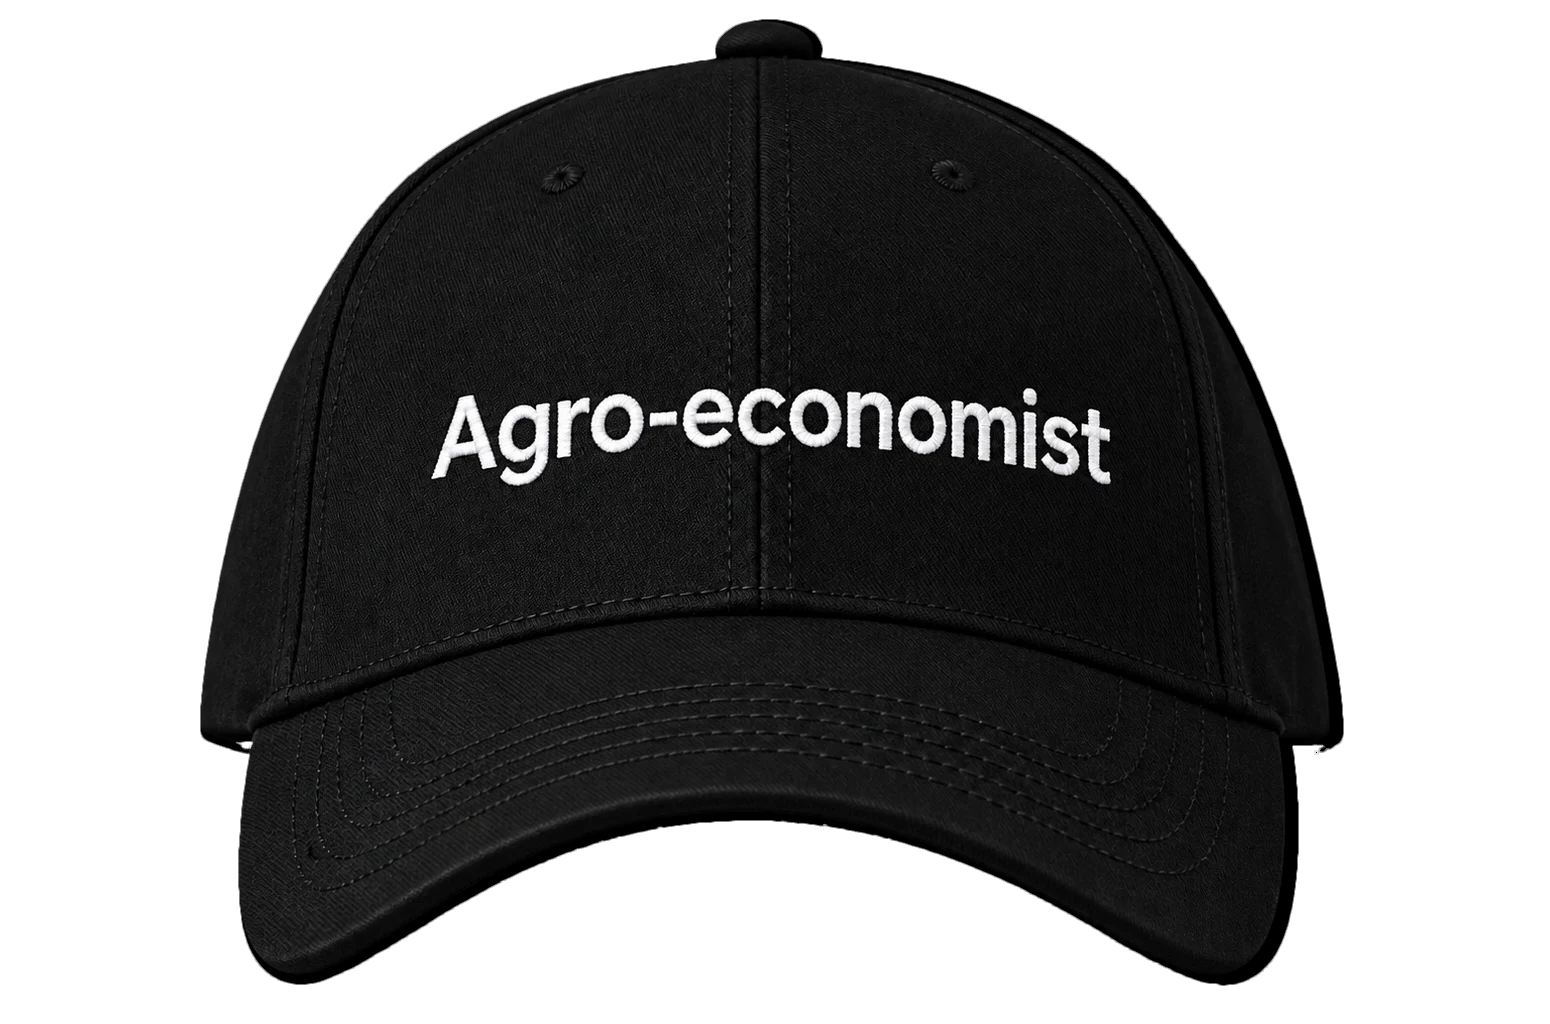
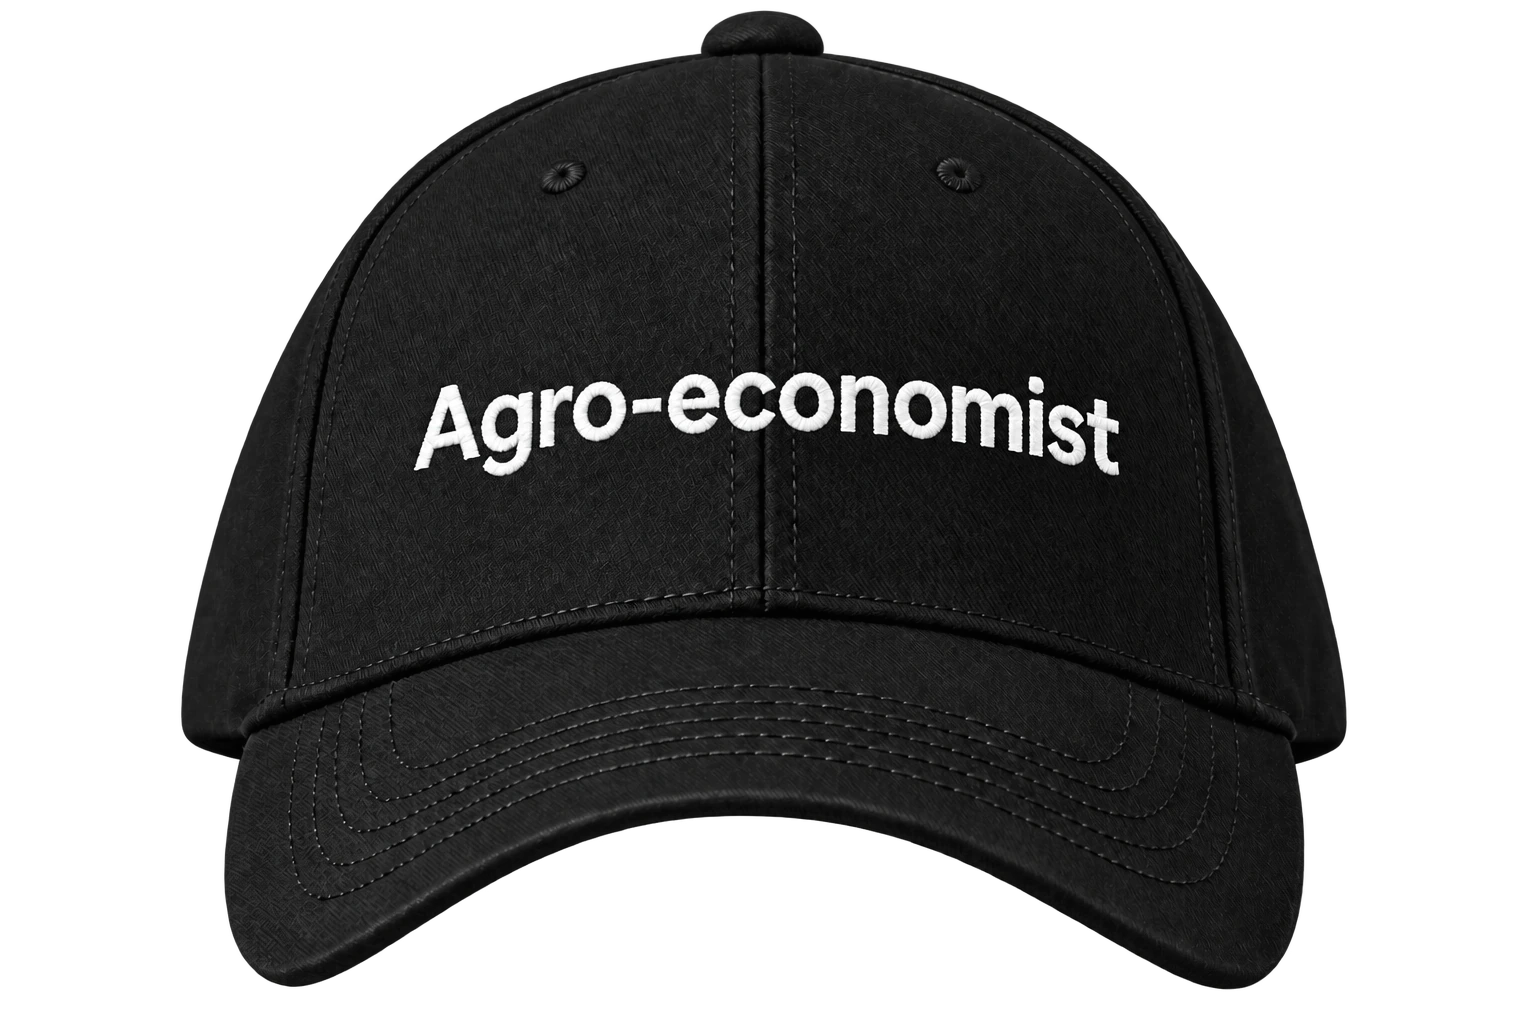
feat: new cap rotation visuals, trim the nav and the home
Six caps replaced, one per role and language. The two agro files arrived
already cut out; the four coloured ones sat on an opaque black vignette.

A luminance flood fill was tried first and stopped on that vignette, leaving a
grey ring hugging each silhouette -- 62% of pixels kept against the 51-52% the
already-cut agro files show. Switching the test to saturation fixes it: the
background is grey whatever its brightness, while red and blue fabric stays
saturated even in shadow. All four now keep 50-51%, matching the reference.

Removals, all requested: the About entry leaves the nav, since the section is
back on the home and reachable by scrolling; the CV section leaves the home,
where it duplicated the /cv page byte for byte; Agency leaves the nav and the
sitemap. The 404 page linked to /agency too and now points at /takacode. The
agency routes themselves are untouched and still build.

Home: 8 sections, 23.3 screens.

diff --git a/components/SiteHeader.jsx b/components/SiteHeader.jsx
@@ -7,23 +7,19 @@ import { forwardRef, useState, useEffect } from "react";
 import { usePathname } from "next/navigation";
 
 const linksFR = [
-  { href: "/#a-propos", label: "À propos", hash: "#a-propos" },
   { href: "/#competences", label: "Compétences", hash: "#competences" },
   { href: "/#parcours", label: "Parcours", hash: "#parcours" },
   { href: "/#projets", label: "Projets", hash: "#projets" },
   { href: "/takacode", label: "TakaCode", path: "/takacode" },
   { href: "/cv", label: "CV", path: "/cv" },
-  { href: "/agency", label: "Agency", path: "/agency" },
 ];
 
 const linksEN = [
-  { href: "/en#a-propos", label: "About", hash: "#a-propos" },
   { href: "/en#competences", label: "Skills", hash: "#competences" },
   { href: "/en#parcours", label: "Timeline", hash: "#parcours" },
   { href: "/en#projets", label: "Projects", hash: "#projets" },
   { href: "/en/takacode", label: "TakaCode", path: "/en/takacode" },
   { href: "/en/cv", label: "CV", path: "/en/cv" },
-  { href: "/en/agency", label: "Agency", path: "/en/agency" },
 ];
 
 const SiteHeader = forwardRef(function SiteHeader({ solid = false, locale = "fr" }, ref) {
@@ -39,7 +35,7 @@ const SiteHeader = forwardRef(function SiteHeader({ solid = false, locale = "fr"
       return;
     }
 
-    const sections = ["a-propos", "competences", "parcours", "projets", "contact"];
+    const sections = ["competences", "parcours", "projets", "contact"];
     const handleIntersection = (entries) => {
       entries.forEach((entry) => {
         if (entry.isIntersecting) {

diff --git a/app/page.jsx b/app/page.jsx
@@ -6,7 +6,6 @@ import CapRotationStory from "@/components/CapRotationStory";
 import SkillsSection from "@/components/SkillsSection";
 import PageLoader from "@/components/PageLoader";
 import ProjectShowcase from "@/components/ProjectShowcase";
-import CvSection from "@/components/CvSection";
 import NewsletterSection from "@/components/NewsletterSection";
 import ContactSection from "@/components/ContactSection";
 import ChatAssistant from "@/components/ChatAssistant";
@@ -77,7 +76,6 @@ export default function Home({ locale = "fr" }) {
         </Link>
       </section>
 
-      <CvSection locale={locale} />
       <NewsletterSection locale={locale} />
       <ContactSection locale={locale} />
 

diff --git a/app/not-found.jsx b/app/not-found.jsx
@@ -14,7 +14,7 @@ export const metadata = {
 const destinations = [
   { href: "/#projets", label: "Les projets", detail: "Applications, plateformes et outils livrés" },
   { href: "/cv", label: "Les CV", detail: "À télécharger en français et en anglais" },
-  { href: "/agency", label: "TakaCode Agency", detail: "Concevoir un produit ensemble" },
+  { href: "/takacode", label: "TakaCode", detail: "La plateforme et son écosystème" },
   { href: "/#contact", label: "Me contacter", detail: "WhatsApp ou e-mail" },
 ];
 

diff --git a/app/sitemap.js b/app/sitemap.js
@@ -8,7 +8,6 @@ const routes = [
   { path: "/projets", priority: 0.9 },
   { path: "/cv", priority: 0.8 },
   { path: "/takacode", priority: 0.8 },
-  { path: "/agency", priority: 0.7 },
 ];
 
 export default function sitemap() {
